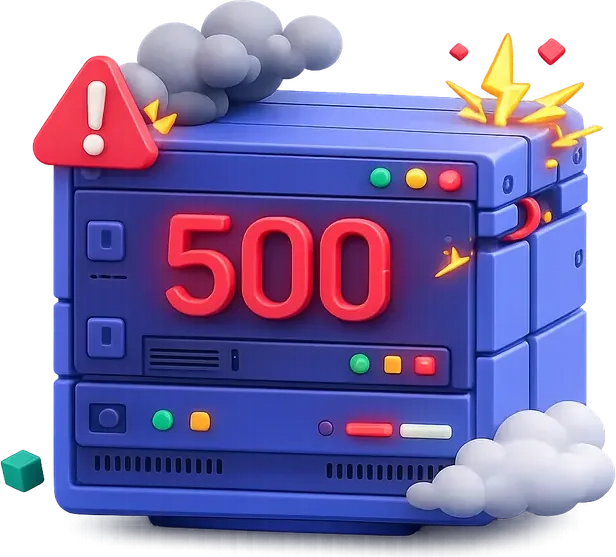
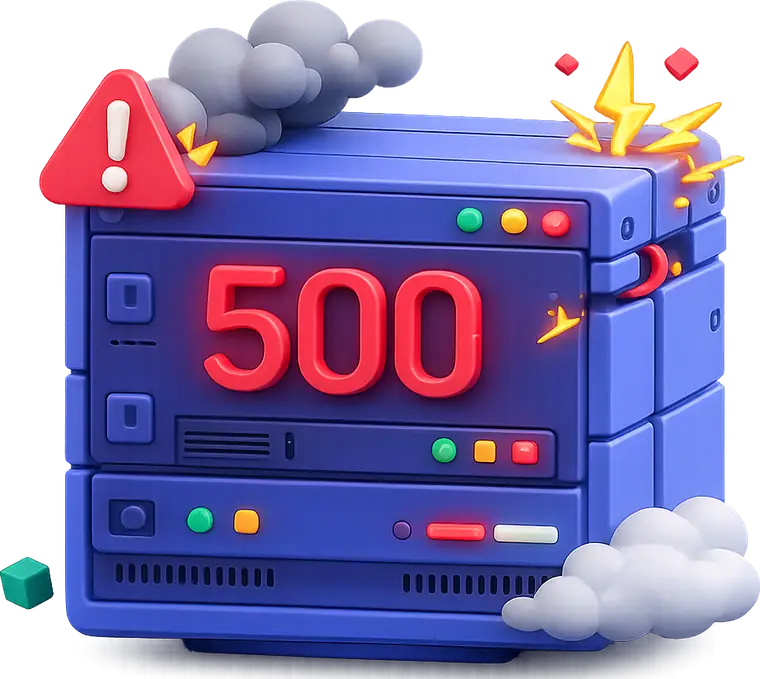
fix(web): properly crop error illustration padding (threshold 60)
The earlier threshold-10 trim left most of the transparent margin — the
soft glow has faint edge pixels that stopped the crop early. Re-trim from
the recovered hi-res PNG masters at threshold 60 so the crop cuts through
the faint halo to the actual artwork, then resize/encode under 150K each
and sync the registry dimensions. The 404 art now fills its frame instead
of floating in transparent padding.

diff --git a/apps/web/src/components/feedback/state-presets.ts b/apps/web/src/components/feedback/state-presets.ts
@@ -41,8 +41,8 @@ export interface StatePreset {
 export const STATE_PRESETS: Record<StateVariant, StatePreset> = {
   "not-found": {
     illustration: "/error/404.webp",
-    width: 720,
-    height: 652,
+    width: 800,
+    height: 735,
     alt: "",
     title: "Page Not Found",
     description: "The page you're looking for doesn't exist or has moved.",
@@ -50,8 +50,8 @@ export const STATE_PRESETS: Record<StateVariant, StatePreset> = {
   },
   "server-error": {
     illustration: "/error/500.webp",
-    width: 616,
-    height: 557,
+    width: 760,
+    height: 679,
     alt: "",
     title: "Something Went Wrong",
     description: "An unexpected error occurred on our end. Please try again.",
@@ -59,8 +59,8 @@ export const STATE_PRESETS: Record<StateVariant, StatePreset> = {
   },
   maintenance: {
     illustration: "/error/503.webp",
-    width: 1021,
-    height: 679,
+    width: 839,
+    height: 752,
     alt: "",
     title: "We'll Be Right Back",
     description: "This service is temporarily unavailable for maintenance.",
@@ -68,8 +68,8 @@ export const STATE_PRESETS: Record<StateVariant, StatePreset> = {
   },
   "bad-request": {
     illustration: "/error/400.webp",
-    width: 546,
-    height: 565,
+    width: 720,
+    height: 705,
     alt: "",
     title: "That Request Didn't Work",
     description: "Something about that request wasn't valid. Try again.",
@@ -77,8 +77,8 @@ export const STATE_PRESETS: Record<StateVariant, StatePreset> = {
   },
   offline: {
     illustration: "/error/no-internet.webp",
-    width: 1024,
-    height: 619,
+    width: 751,
+    height: 729,
     alt: "",
     title: "You're Offline",
     description: "Check your internet connection and try again.",
@@ -87,7 +87,7 @@ export const STATE_PRESETS: Record<StateVariant, StatePreset> = {
   forbidden: {
     illustration: "/error/403.webp",
     width: 511,
-    height: 482,
+    height: 470,
     alt: "",
     title: "Access Denied",
     description: "You don't have permission to view this.",
@@ -96,7 +96,7 @@ export const STATE_PRESETS: Record<StateVariant, StatePreset> = {
   "rate-limited": {
     illustration: "/error/429.webp",
     width: 482,
-    height: 510,
+    height: 496,
     alt: "",
     title: "Slow Down a Moment",
     description: "Too many requests in a short time. Please wait and retry.",
@@ -113,8 +113,8 @@ export const STATE_PRESETS: Record<StateVariant, StatePreset> = {
   },
   "no-results": {
     illustration: "/error/empty-search.webp",
-    width: 549,
-    height: 487,
+    width: 760,
+    height: 667,
     alt: "",
     title: "No results found",
     description: "Try a different search or clear your filters.",
@@ -122,8 +122,8 @@ export const STATE_PRESETS: Record<StateVariant, StatePreset> = {
   },
   "load-failed": {
     illustration: "/error/offline.webp",
-    width: 513,
-    height: 492,
+    width: 700,
+    height: 667,
     alt: "",
     title: "Couldn't load this",
     description: "We hit a problem loading this content. Please try again.",
@@ -131,8 +131,8 @@ export const STATE_PRESETS: Record<StateVariant, StatePreset> = {
   },
   success: {
     illustration: "/error/success.webp",
-    width: 515,
-    height: 501,
+    width: 514,
+    height: 494,
     alt: "",
     title: "Thank you!",
     description: "We've received your submission and will be in touch.",
